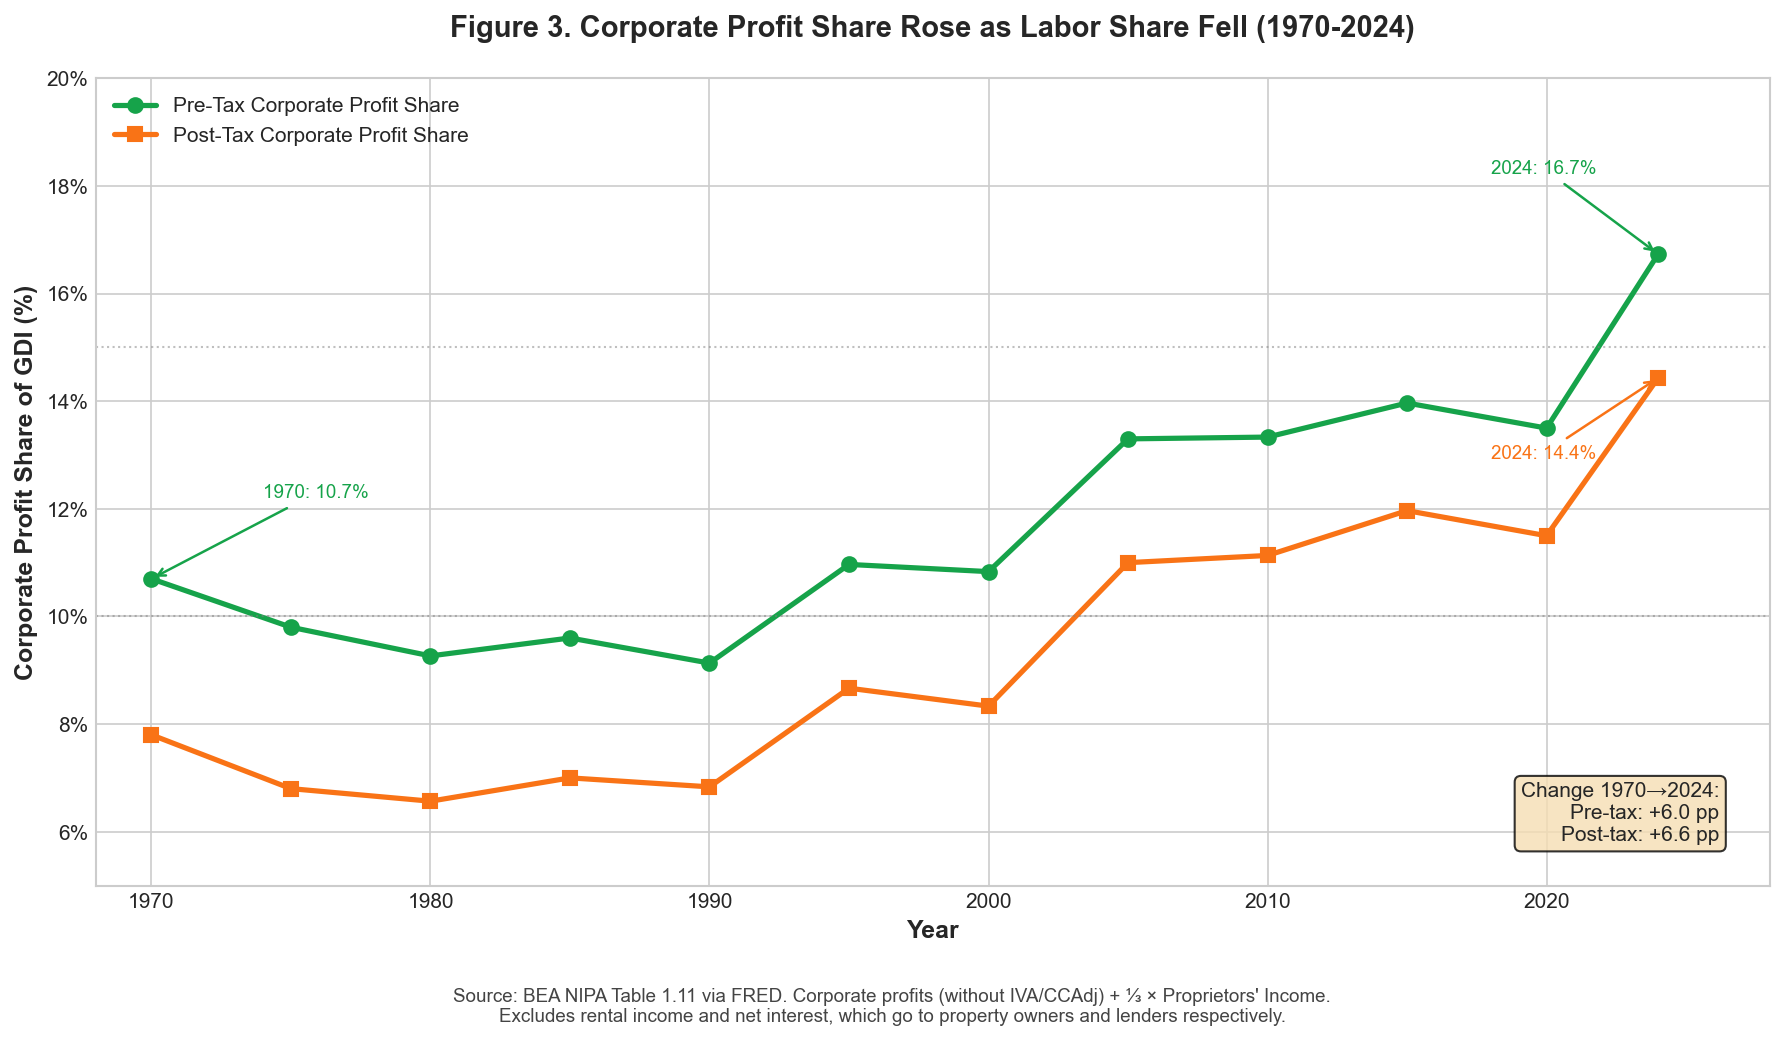
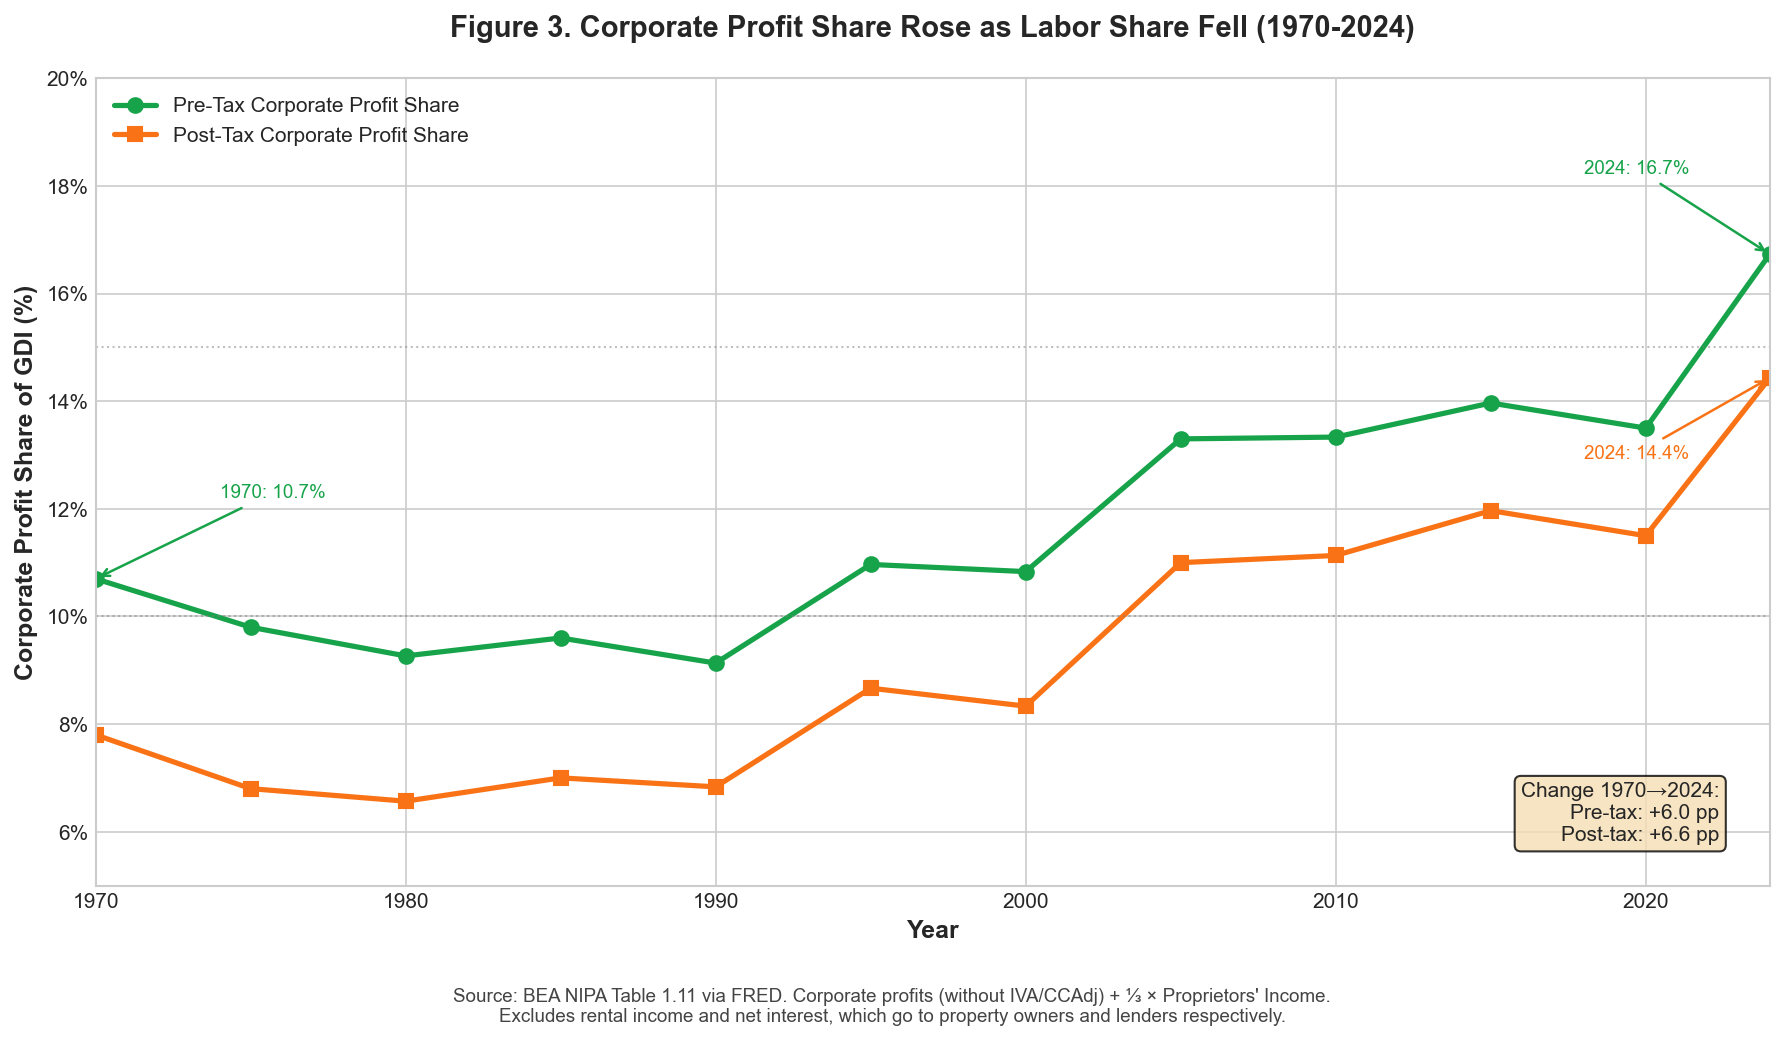
Fix Figure 3 x-axis: remove white space, start at 1970 end at 2024

diff --git a/scripts/generate_capital_share_chart.py b/scripts/generate_capital_share_chart.py
@@ -73,7 +73,7 @@ ax.set_ylabel('Corporate Profit Share of GDI (%)', fontsize=12, fontweight='bold
 ax.set_title('Figure 3. Corporate Profit Share Rose as Labor Share Fell (1970-2024)',
              fontsize=14, fontweight='bold', pad=20)
 
-ax.set_xlim(1968, 2028)
+ax.set_xlim(1970, 2024)
 ax.set_ylim(5, 20)
 ax.yaxis.set_major_formatter(mtick.PercentFormatter(decimals=0))
 
